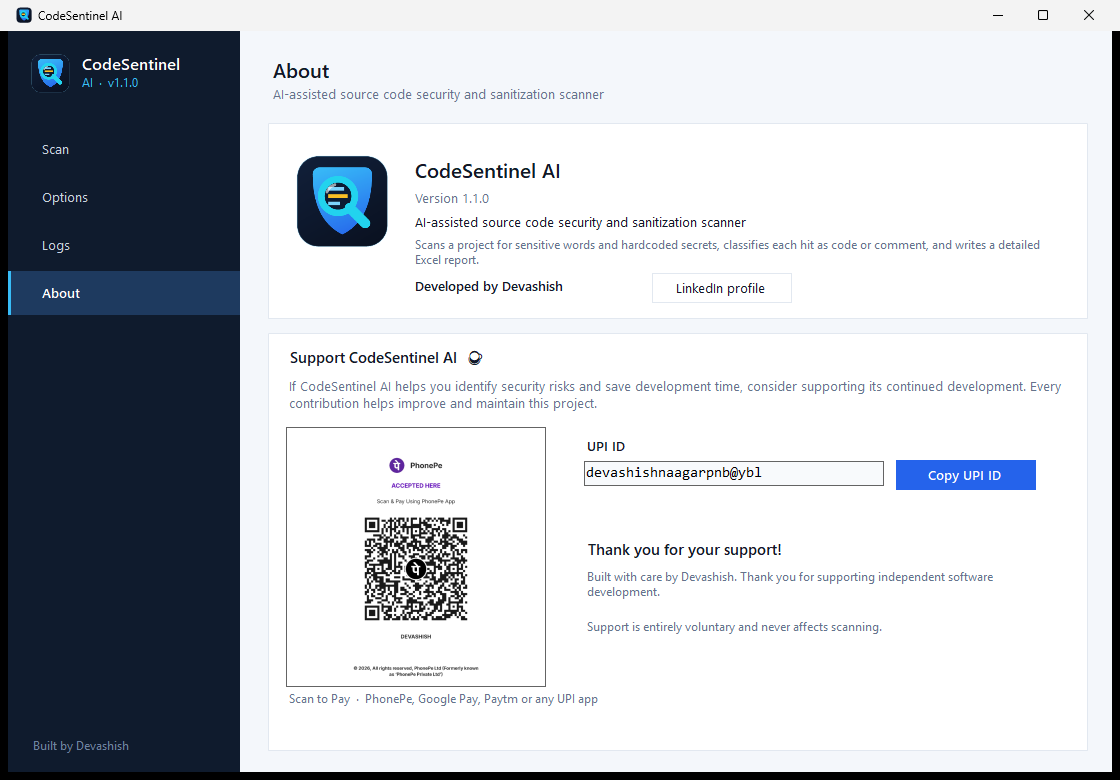
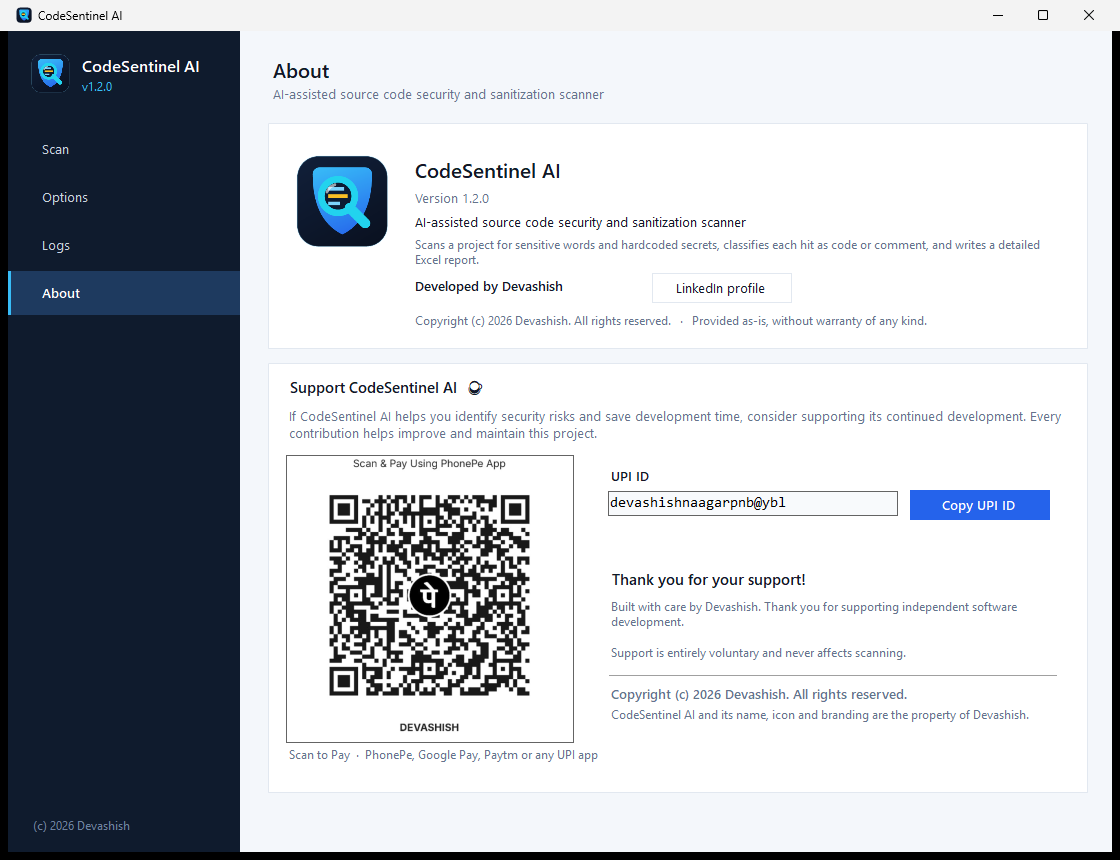
Square support QR and copyright notice

diff --git a/README.md b/README.md
@@ -223,7 +223,7 @@ If CodeSentinel AI helps you identify security risks and save development time, 
 supporting its continued development. Every contribution helps improve and maintain this project.
 
 <div align="center">
-<img src="assets/donate-phonepe.jpg" width="300" alt="UPI QR">
+<img src="assets/donate-phonepe.png" width="300" alt="UPI QR">
 
 **Scan to Pay** · PhonePe, Google Pay, Paytm or any UPI app
 
@@ -236,5 +236,5 @@ supporting its continued development. Every contribution helps improve and maint
 
 <div align="center">
 <sub>Built with care by Devashish. Thank you for supporting independent software development.</sub><br>
-<sub>© 2026 Devashish · Free to use · Provided as-is, without warranty</sub>
+<sub><b>Copyright © 2026 Devashish. All rights reserved.</b></sub><br><sub>CodeSentinel AI and its name, icon and branding are the property of Devashish. Provided as-is, without warranty of any kind.</sub>
 </div>
